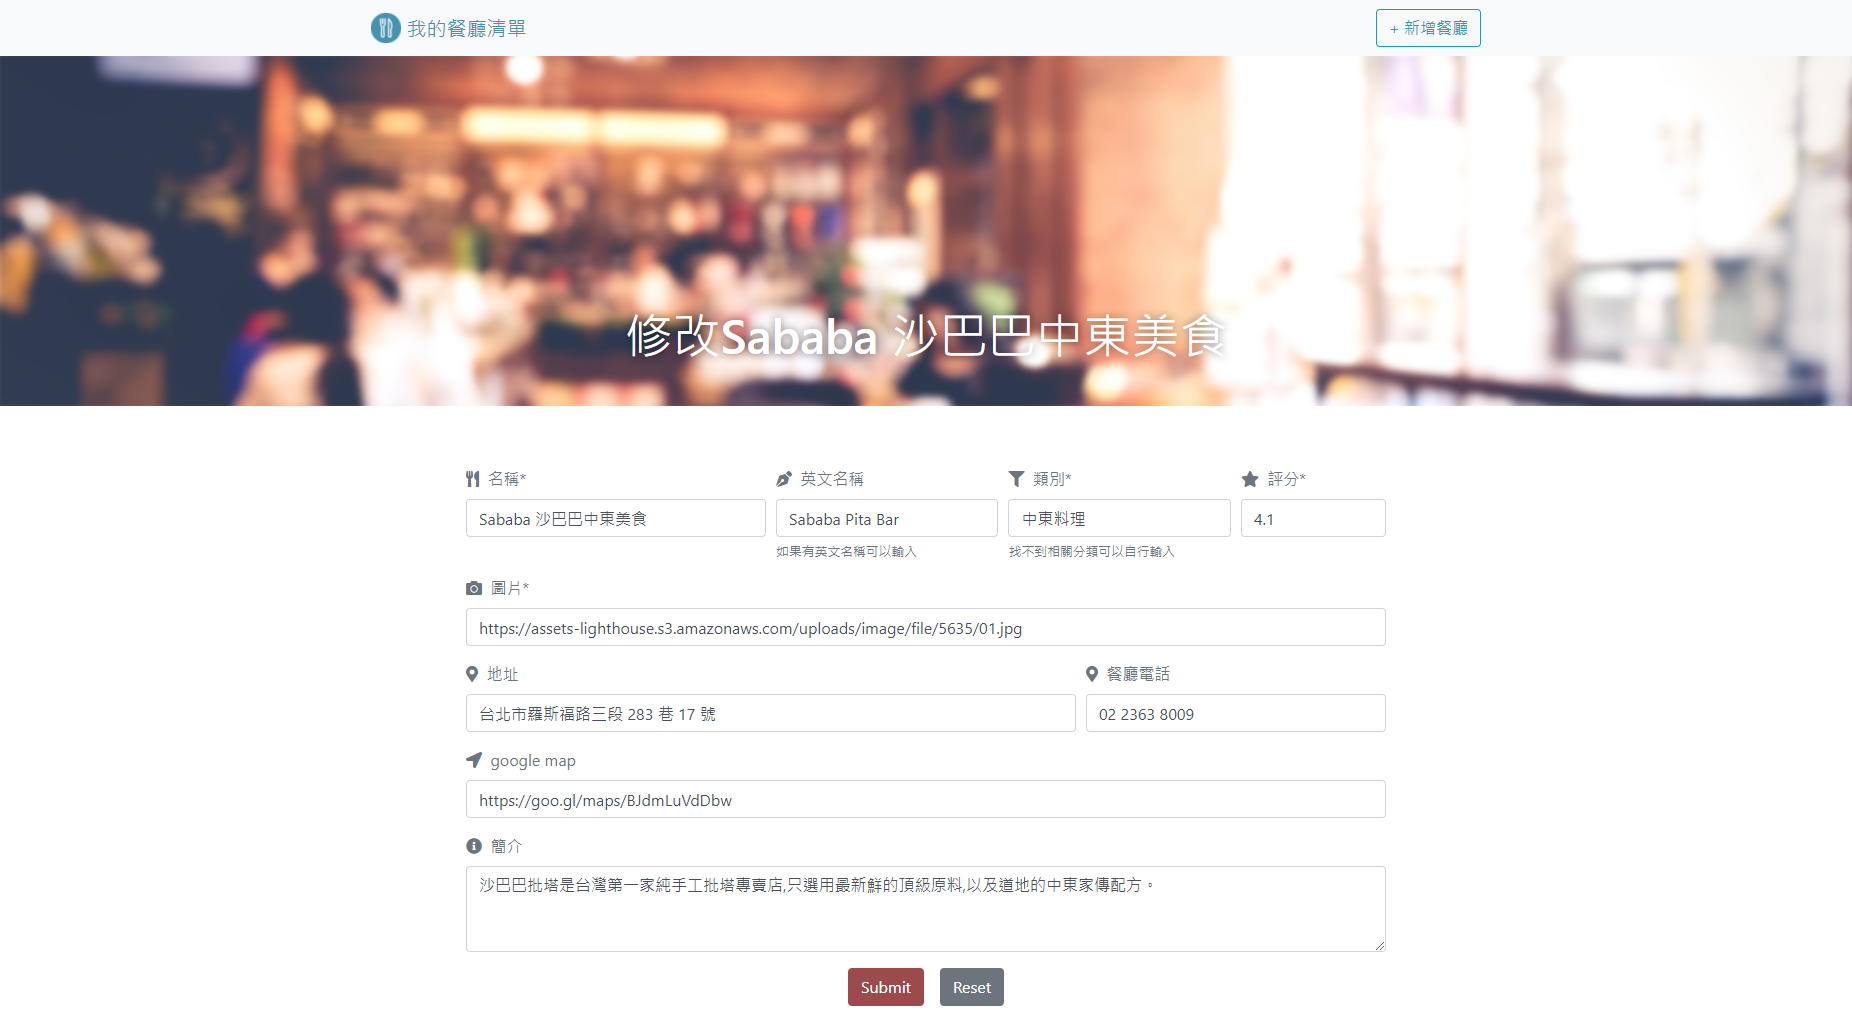
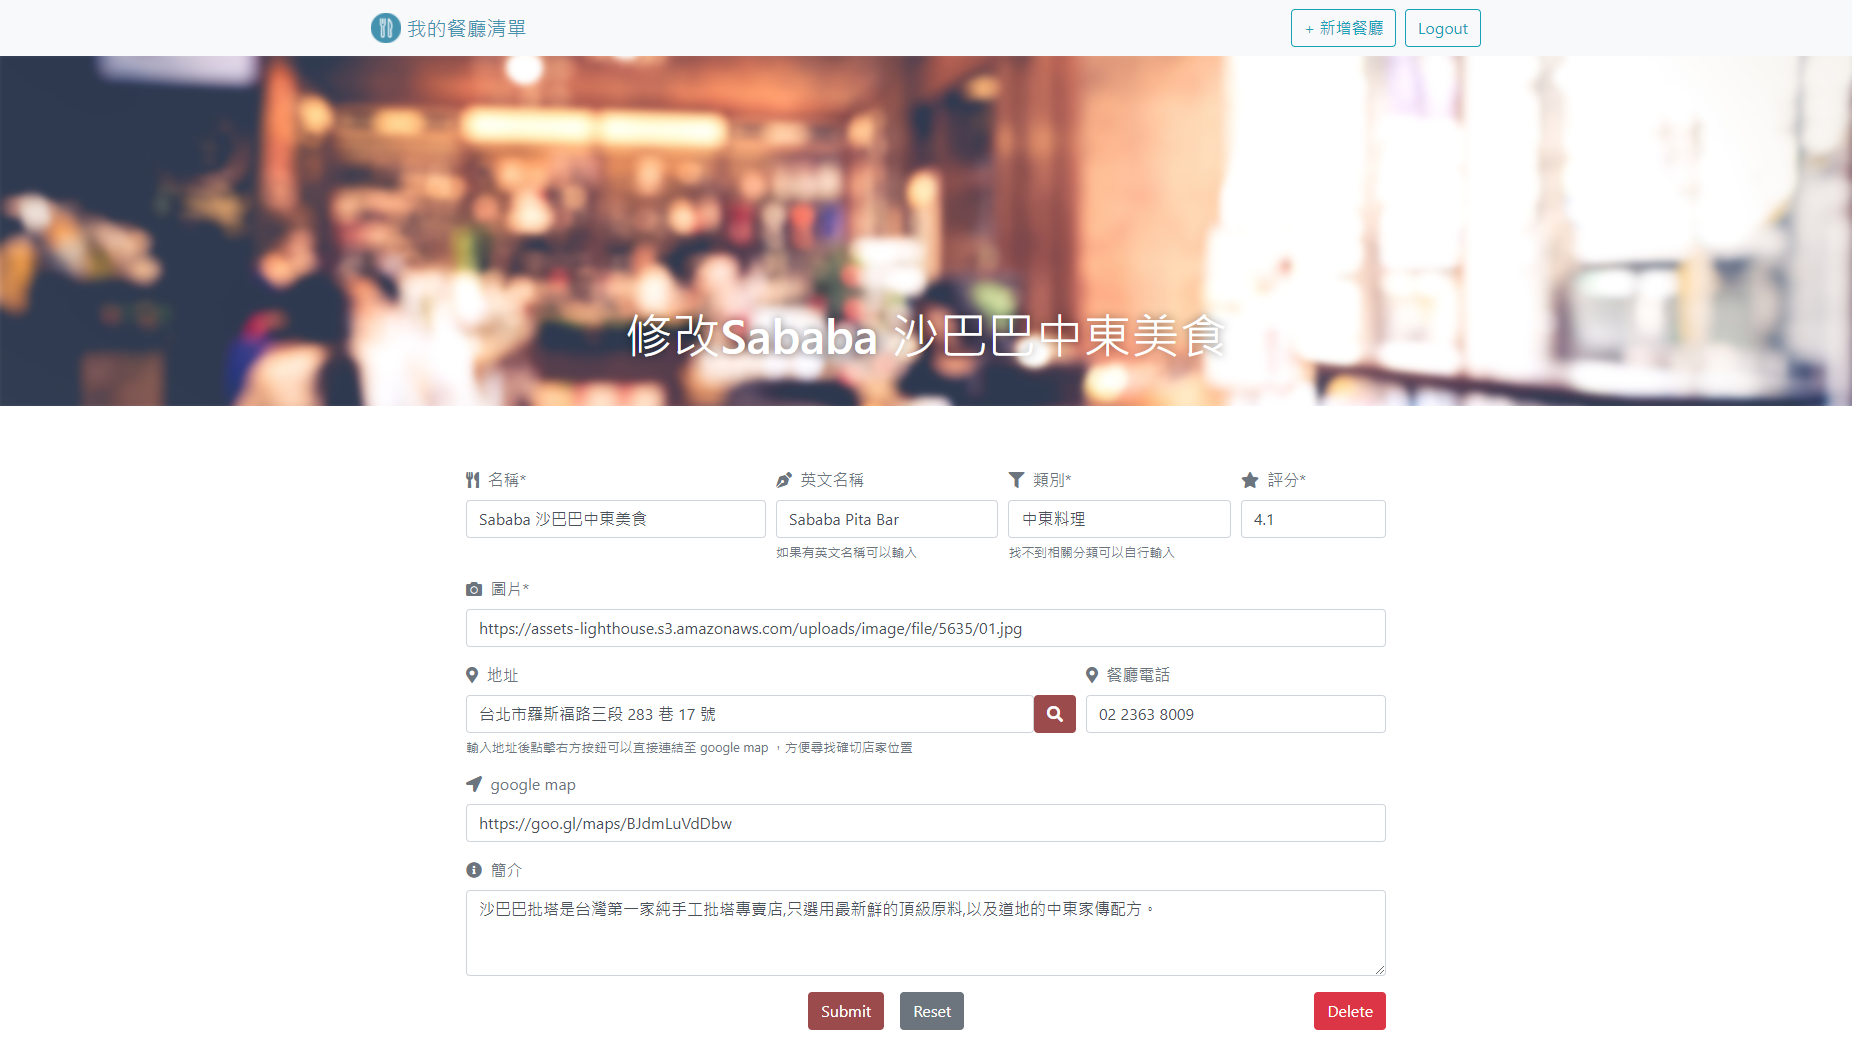
doc: v3.0 readme 更新

diff --git a/README.md b/README.md
@@ -2,7 +2,7 @@
 <div id="top"></div>
 <p>
   <a href="https://github.com/Prysline/S2A1_restaurant" target="_blank">
-  <img alt="Version" src="https://img.shields.io/badge/version-2.2.0-blue.svg?cacheSeconds=2592000" />
+  <img alt="Version" src="https://img.shields.io/badge/version-3.0.0-blue.svg?cacheSeconds=2592000" />
   </a>
   <a href="https://github.com/Prysline/S2A1_restaurant/blob/main/LICENSE" target="_blank">
     <img alt="License: MIT" src="https://img.shields.io/github/license/Prysline/S2A1_restaurant.svg" />
@@ -43,20 +43,31 @@
 
 一個以 Node.js 和 Express 製作的餐廳清單網站，能夠檢視目前所有的餐廳清單，並在站內搜尋餐廳名稱或餐廳類別。
 點擊餐廳圖片會進入餐廳詳細資訊的頁面。
+註冊不同帳號登入後可儲存不同的餐廳清單。
 
 ### 特色 Feature
-- 卡片式餐廳清單
+#### 登入
+- 使用者註冊
+- FACEBOOK登入
+#### 資料庫
 - 能用餐廳中英文名稱或是餐廳類型查找
 - 點擊餐廳圖片可瀏覽詳細資訊
 - 新增餐廳資訊
 - 修改餐廳資訊
 - 刪除餐廳資訊
-- 新增、修改、刪除餐廳資訊時有提示視窗
-- 首頁新增排序功能
+#### 使用者體驗
+- 卡片式餐廳清單
+- 使用者操作時有視窗反饋
+- 首頁排序功能
+
 
 ### 截圖 Screenshot
 <div>
   <img alt="index" src="https://github.com/Prysline/S2A1_restaurant/blob/main/public/images/index.png" style="display: inline-box; width: 12em;">
+  <img alt="login" src="https://github.com/Prysline/S2A1_restaurant/blob/main/public/images/login.png" style="display: inline-box; width: 12em;">
+  <img alt="register" src="https://github.com/Prysline/S2A1_restaurant/blob/main/public/images/register.png" style="display: inline-box; width: 12em;">
+</div>
+<div>
   <img alt="info" src="https://github.com/Prysline/S2A1_restaurant/blob/main/public/images/info.png" style="display: inline-box; width: 12em;">
   <img alt="new" src="https://github.com/Prysline/S2A1_restaurant/blob/main/public/images/new.png" style="display: inline-box; width: 12em;">
   <img alt="edit" src="https://github.com/Prysline/S2A1_restaurant/blob/main/public/images/edit.png" style="display: inline-box; width: 12em;">
@@ -73,6 +84,8 @@
 - [mongoDB](https://www.mongodb.com/) (v4.2.17)
 - [mongoose](https://mongoosejs.com/)
 - [Robo 3T](https://robomongo.org/)
+- [Facebook developer app](https://developers.facebook.com/apps)
+- .env（環境變數設定檔案）
 
 <p align="right">(<a href="#top">back to top</a>)</p>
 
@@ -104,6 +117,15 @@
    ```sh
    npm install
    ```
+4. 於 `/S2A1_restaurant` 建立 `.env` 檔案，可複製 `.env.example` 加以修改，或是參考以下內容設定：
+   ```
+   FACEBOOK_ID = FACEBOOK應用程式編號
+   FACEBOOK_SECRET = FACEBOOK應用程式密鑰
+   FACEBOOK_CALLBACK = http://localhost:3000/auth/facebook/callback
+   SESSION_SECRET = 可自訂任意文字
+   MONGODB_URI = mongodb://localhost/restaurant-list
+   PORT = 3000
+   ```
 4. 建立種子資料 （須連線 mongoDB 伺服器）
    ```sh
    npm run seed
@@ -117,6 +139,26 @@
    npm run dev
    ```
 6. 在瀏覽器網址列輸入 `http://localhost:3000/` 瀏覽網站
+7. 使用測試帳號登入
+   ```
+   #user1
+   email : user1@example.com
+   password : 12345678
+   ```
+   ```
+   #user2
+   email : user2@example.com
+   password : 12345678
+   ```
+#### 使用第三方登入
+1. 建立 [Facebook developer app](https://developers.facebook.com/apps)，新增 FACEBOOK登入
+2. 於 設定>基本資料 中，找到應用程式編號與密鑰，並將內容加入`.env`檔案中
+  ```
+   FACEBOOK_ID = FACEBOOK應用程式編號
+   FACEBOOK_SECRET = FACEBOOK應用程式密鑰
+   FACEBOOK_CALLBACK = http://localhost:3000/auth/facebook/callback
+  ```
+
 
 <p align="right">(<a href="#top">back to top</a>)</p>
 
